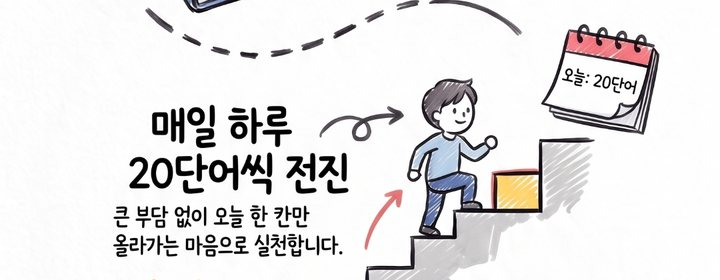
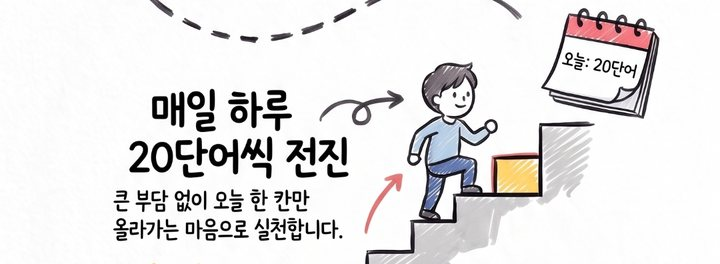
v1.8.10: 배너 이미지 위쪽 책 모서리 잘라냄
Claude-Session: https://claude.ai/code/session_01FPkQN55rbRuSMDBrCdcuL7

Changed region(s): [[0.1528, 0.0303, 0.9167, 0.9394], [0.1833, 0.0, 0.7333, 0.2121], [0.4889, 0.9394, 0.5806, 0.9697]]

diff --git a/index_voca.html b/index_voca.html
@@ -988,7 +988,7 @@ table.tm-t{width:100%;border-collapse:collapse;table-layout:fixed}
 
 <script>
 /* ====== 버전 ====== */
-const APP_VERSION = '1.8.9', APP_DATE = '2026-10-17', SERVER_NEED = 18;
+const APP_VERSION = '1.8.10', APP_DATE = '2026-10-17', SERVER_NEED = 18;
 
 /* ====== 설정 ====== */
 // 배포한 Apps Script 웹 앱 URL 을 아래에 붙여넣거나, 앱의 ⚙ 설정에서 입력하세요.

diff --git a/sw_voca.js b/sw_voca.js
@@ -1,4 +1,4 @@
-const CACHE = 'voca-shell-v39';
+const CACHE = 'voca-shell-v40';
 const SHELL = ['./index_voca.html', './manifest_voca.json', './icon_voca.svg', './img/tm_hero.jpg'];
 
 self.addEventListener('install', e => {
